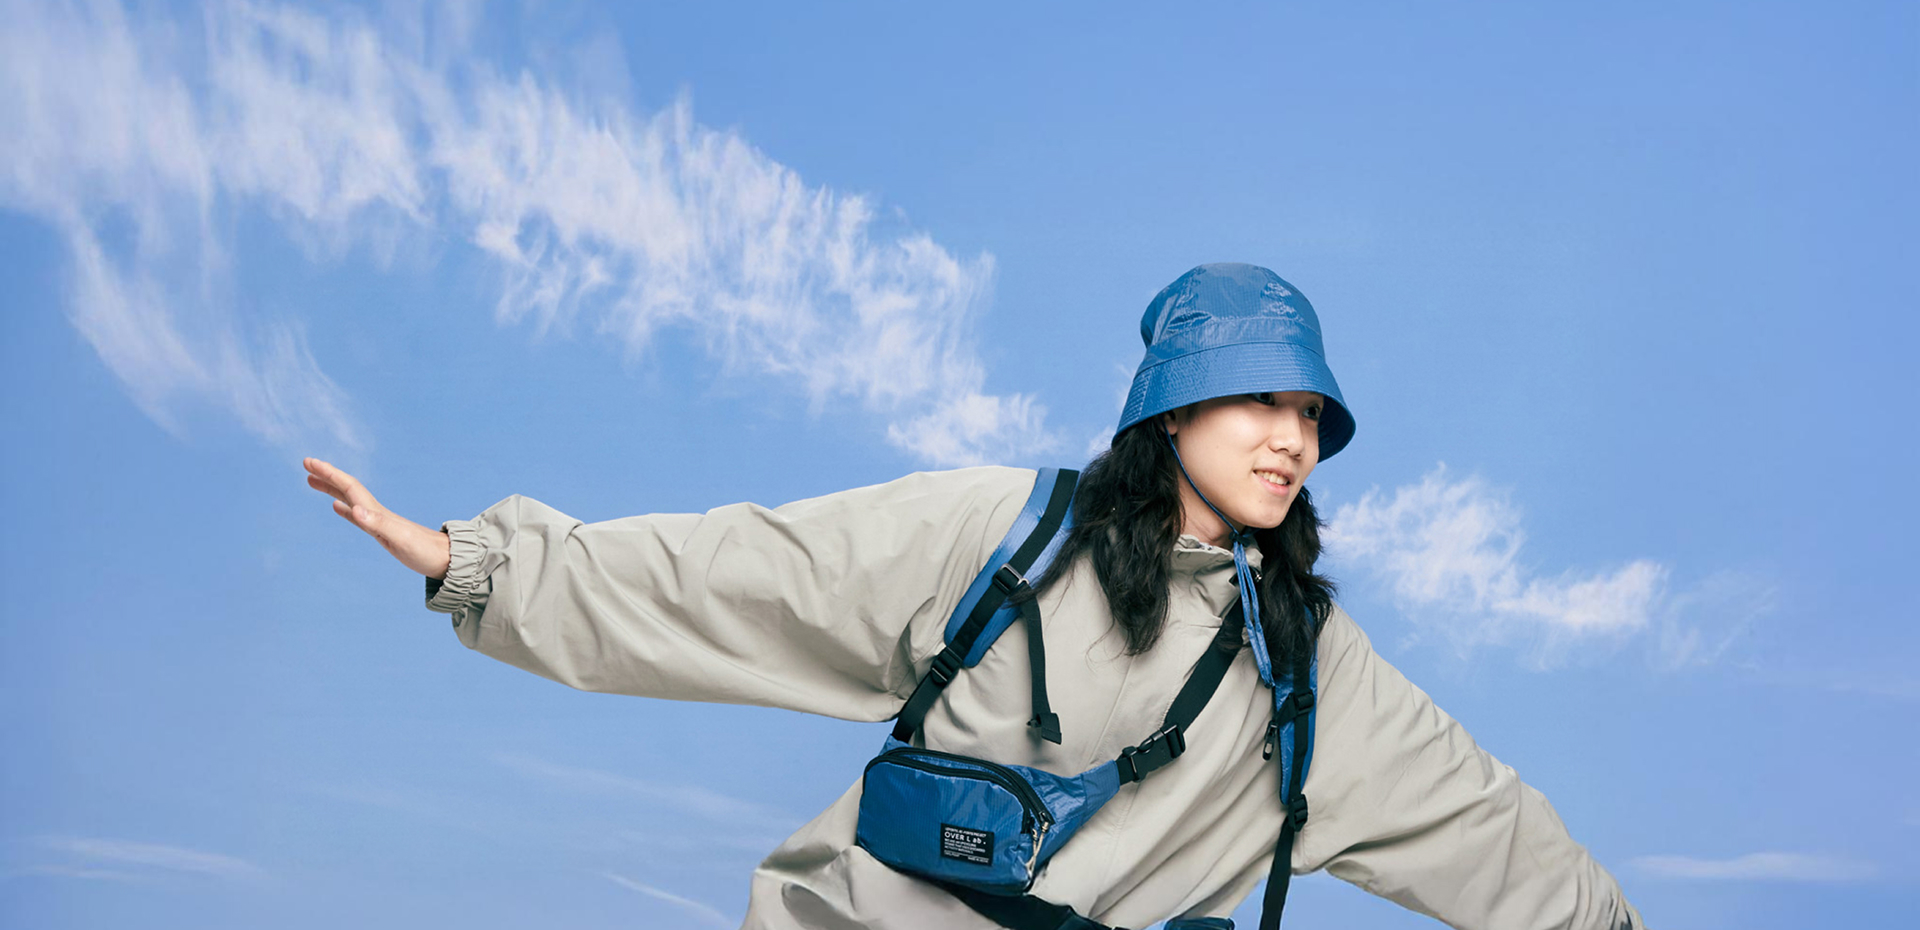
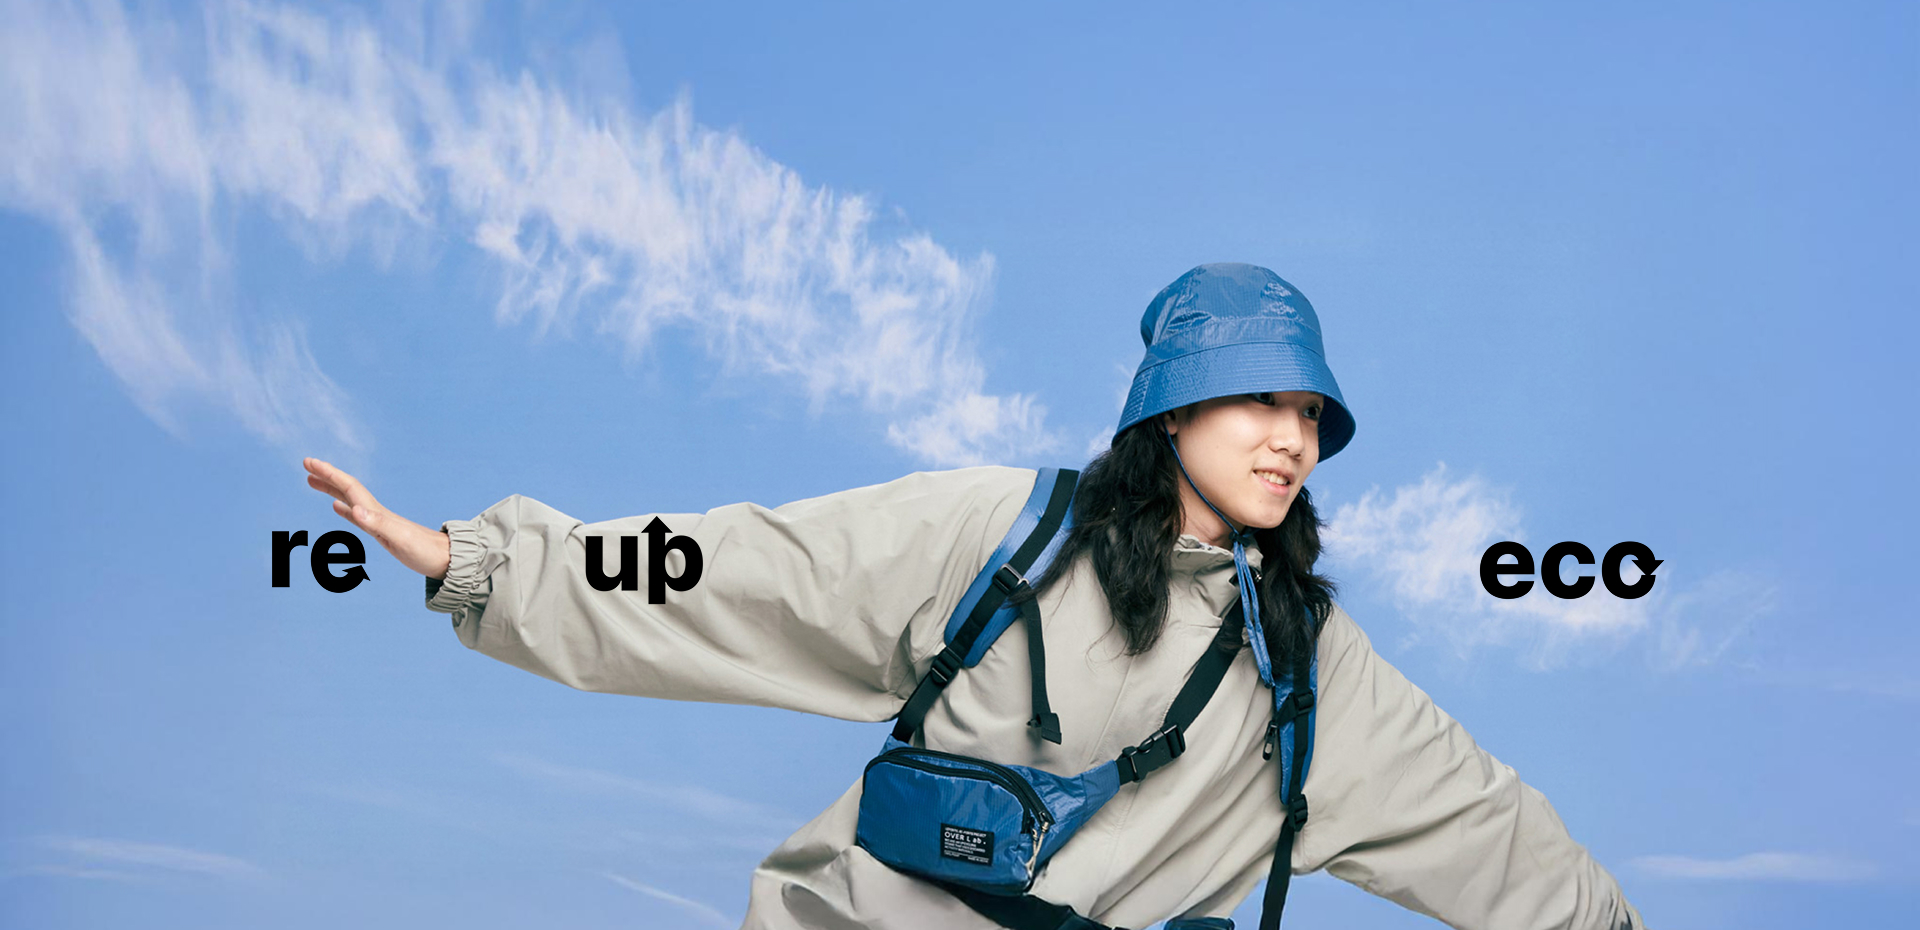
공부

Changed region(s): [[0.75, 0.5613, 0.875, 0.6548], [0.2812, 0.5613, 0.375, 0.6548], [0.125, 0.5613, 0.1875, 0.6548]]

diff --git a/overlab/index.html b/overlab/index.html
@@ -39,12 +39,11 @@
                     <p class="coupon"><a href="#"><img src="./images/coupon.png" alt="회원가입쿠폰"></a></p>
                 </div>
             </div>
-            
         </div>
-        
     </header>
     <div class="main_bg">
         <h2><em>오버랩은 지속가능한 소재로</em><br><span>환경</span>에 미치는 영향을 최소화합니다</h2>
+
         <div class="btn">
             <a href="#"><img src="./images/arrow_back.png" alt="앞으로가기"></a>
             <a href="#"><img src="./images/arrow_forward.png" alt="뒤로가기"></a>

diff --git a/overlab/style/index.css b/overlab/style/index.css
@@ -40,9 +40,13 @@ header .coupon a img {width: 100%;}
     position: absolute; top: 0;
     text-align: center;
 }
-.main_bg h2 {}
-.main_bg h2 em {}
-.main_bg h2 span {}
+.main_bg h2 {
+    font-size: 2.81rem; position: absolute; top: 30%; left: 10%;
+    letter-spacing: -0.02rem; line-height: 1.3; font-weight: 700;
+    text-align: left;
+}
+.main_bg h2 em {font-size: 1.88rem; font-weight: 700}
+.main_bg h2 span {color: #fff;}
 .main_bg .btn {position: absolute; right: 50px; bottom: 50px;}
 .main_bg .btn a {width: 30px; height: 30px;}
 .main_bg .btn a img {width: 30px; }
